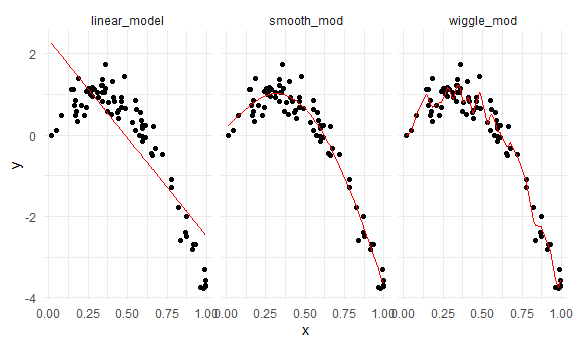
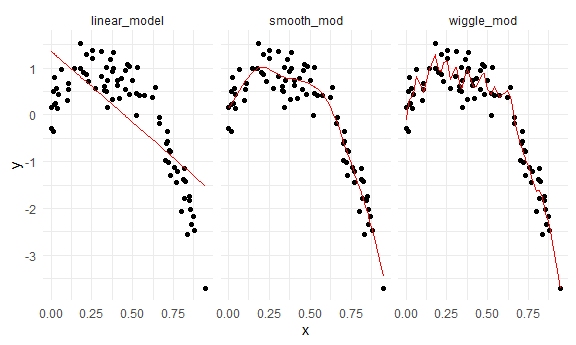
cross validation using modelr package

diff --git a/cross_validation.md b/cross_validation.md
@@ -151,18 +151,147 @@ look at test dataset)
 rmse(linear_model, test_df)
 ```
 
-    ## [1] 0.998492
+    ## [1] 0.9146237
 
 ``` r
 ## smallest (best)
 rmse(smooth_mod, test_df)
 ```
 
-    ## [1] 0.2724838
+    ## [1] 0.3497416
 
 ``` r
 ## middle
 rmse(wiggle_mod, test_df)
 ```
 
-    ## [1] 0.3542352
+    ## [1] 0.4403312
+
+## Cross validation using `modelr` package
+
+This package automates the process of generating a testing and training
+dataset 100 cross validation runs Drawing mulitple samples from a
+dataset that already exists 100 different datasets that sample different
+stuff from the existing dataset
+
+``` r
+cv_df = 
+  crossv_mc(nonlin_df, 100)
+```
+
+What is going on here… We can covert any one of those samples into
+dataframes
+
+``` r
+cv_df %>% pull(train) %>% .[[1]] %>% as_tibble()
+```
+
+    ## # A tibble: 79 x 3
+    ##       id       x      y
+    ##    <int>   <dbl>  <dbl>
+    ##  1     1 0.306    0.834
+    ##  2     2 0.00137 -0.298
+    ##  3     3 0.817   -1.15 
+    ##  4     5 0.344    0.160
+    ##  5     6 0.230    0.722
+    ##  6     7 0.812   -1.38 
+    ##  7     8 0.854   -2.01 
+    ##  8     9 0.00226  0.170
+    ##  9    10 0.573    0.425
+    ## 10    11 0.420    0.345
+    ## # ... with 69 more rows
+
+``` r
+cv_df %>% pull(test) %>% .[[1]] %>% as_tibble()
+```
+
+    ## # A tibble: 21 x 3
+    ##       id        x       y
+    ##    <int>    <dbl>   <dbl>
+    ##  1     4 0.571     0.252 
+    ##  2    14 0.664    -0.0614
+    ##  3    16 0.542     0.427 
+    ##  4    20 0.948    -3.70  
+    ##  5    22 0.770    -1.45  
+    ##  6    23 0.215     1.29  
+    ##  7    34 0.638     0.599 
+    ##  8    35 0.000219 -0.446 
+    ##  9    42 0.183     1.54  
+    ## 10    44 0.274     0.561 
+    ## # ... with 11 more rows
+
+I want list columns of straight dataframes, not resamples
+
+``` r
+cv_df =
+  cv_df %>% 
+  mutate(
+    train = map(train, as_tibble),
+    test = map(test, as_tibble)
+  )
+```
+
+Let’s try to fit models and get RMSEs for them
+
+Fit linear models for every element in the training column (100
+dataframes) Produces a list column with linear models map\_dbl gives it
+as a number rather than a list
+
+``` r
+cv_df = 
+  cv_df %>% 
+  mutate(
+    linear_mod  = map(.x = train, ~lm(y ~ x, data = .x)),
+    smooth_mod = map(.x = train, ~gam(y ~s(x), data = .x)),
+    wiggly_mod = map(.x = train, ~gam(y ~s(x, k = 30), sp = 10e-6, data = .x))
+  ) %>% 
+  mutate(
+    rmse_linear = map2_dbl(.x = linear_mod, .y = test, ~rmse(model = .x, data = .y)),
+    rmse_smooth = map2_dbl(.x = smooth_mod, .y = test, ~rmse(model = .x, data = .y)),
+    rmse_wiggly = map2_dbl(.x = wiggly_mod, .y = test, ~rmse(model = .x, data = .y))
+  )
+```
+
+How do we know which model is the best?
+
+Plotted the distribution over 100 different training sets for 3
+different models
+
+``` r
+cv_df %>% 
+  select(starts_with("rmse")) %>% 
+  pivot_longer(
+    everything(),
+    names_to = "model",
+    values_to = "rmse",
+    names_prefix = "rmse_"
+  ) %>% 
+  ggplot(aes(x = model, y = rmse)) +
+  geom_violin()
+```
+
+<img src="cross_validation_files/figure-gfm/unnamed-chunk-13-1.png" width="90%" />
+
+Commute averages of rmse
+
+``` r
+cv_df %>% 
+  select(starts_with("rmse")) %>% 
+  pivot_longer(
+    everything(),
+    names_to = "model",
+    values_to = "rmse",
+    names_prefix = "rmse_"
+  ) %>% 
+  group_by(model) %>% 
+  summarize(avg_rmse = mean(rmse))
+```
+
+    ## `summarise()` ungrouping output (override with `.groups` argument)
+
+    ## # A tibble: 3 x 2
+    ##   model  avg_rmse
+    ##   <chr>     <dbl>
+    ## 1 linear    0.817
+    ## 2 smooth    0.345
+    ## 3 wiggly    0.411
